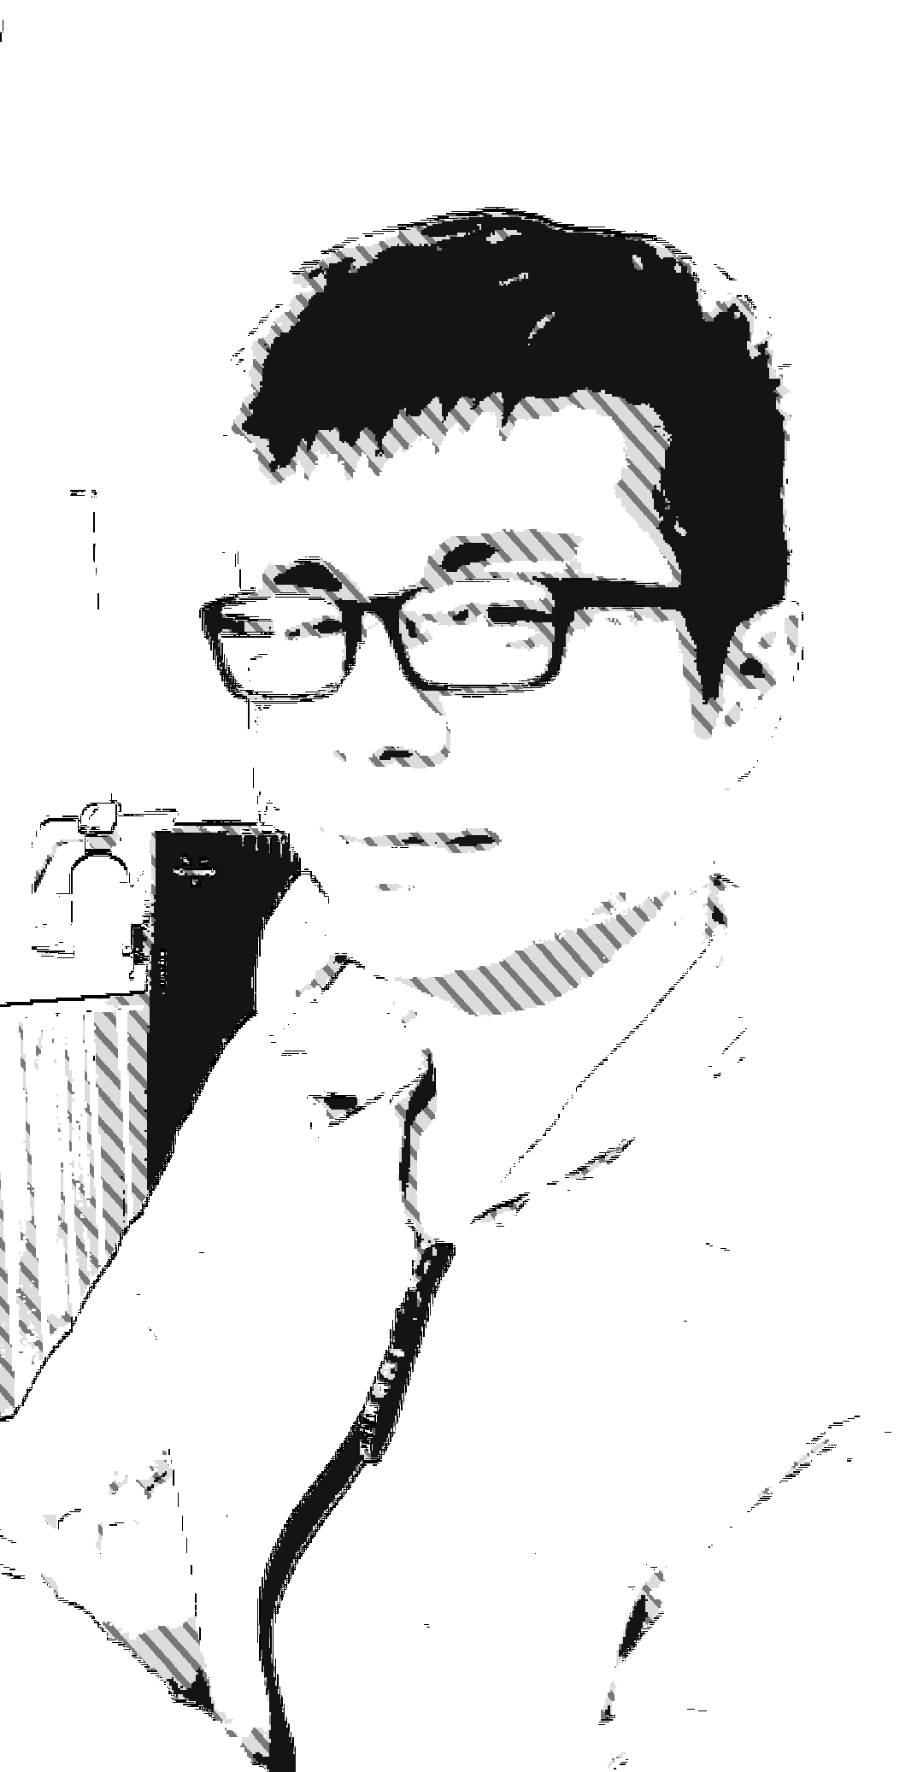
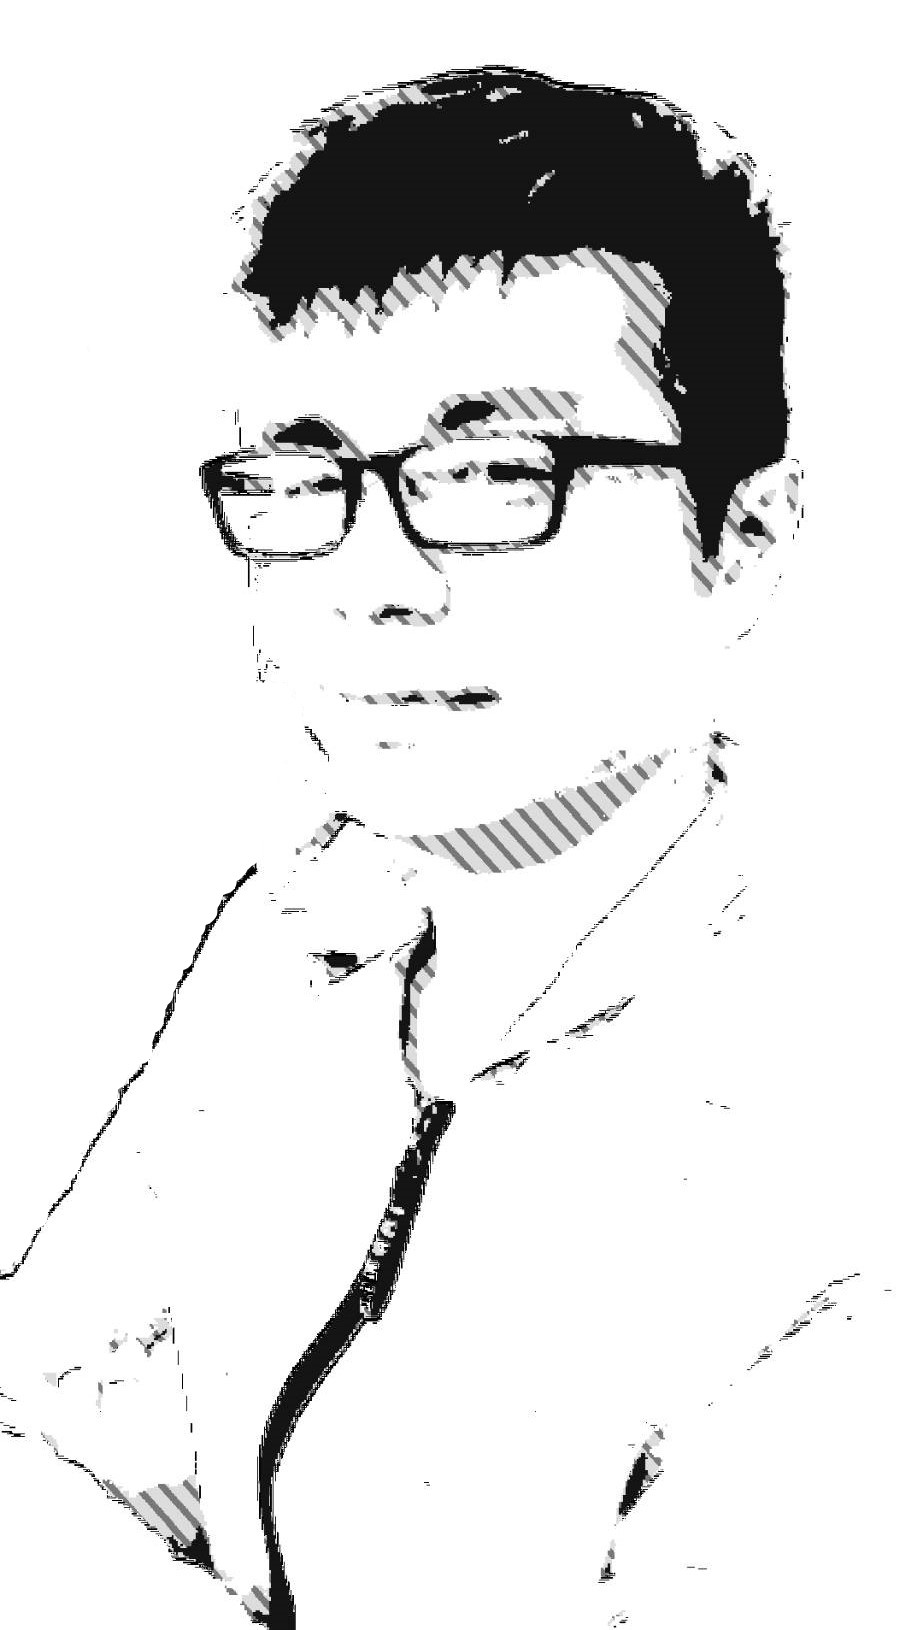
edit personal picture

diff --git a/src/component/Detail.js b/src/component/Detail.js
@@ -17,6 +17,7 @@ function Detail({ seq = 0, detail = {}, dataElement = "" }) {
          <Container className="detailContent">
             {contentSwitch(seq)}
          </Container>
+         <div className="detailFooter"></div>
       </React.Fragment>
    );
 };
@@ -37,19 +38,11 @@ function contentSwitch(seq) {
       case 0:
          return (
             <Row>
-               <Col><Image className="m-3 align-self-start" width="300px" thumbnail src="/assets/picture/edward.jpg" /></Col>
                <Col>
                   <p>【我的個性】
                      我是李冠樺，來自台中市，個性沉穩，善於思惟整理歸納要點，因此對於寫程式的架構與邏輯上的思考極有興趣。會觀察身邊的人有何需求，與伙伴之間的相處融洽。</p>
-                  <p>【學習與工作歷程】
-                     我畢業於國立中正大學資訊管理研究所，因對數位課程的發展有興趣，碩士論文研究影響數位學習品質的因素為何。在學時曾接觸 Java、C#、ASP.NET。畢業後因認同理念、希望為善的力量貢獻所能，進入福智佛教基金會中區事業部任職，負責維護資料庫，及各項課程與活動的規劃。</p>
-                  <p>【工作期間】
-                     因工作需求不斷自學 Microsoft SQL Server相關技能，也著手改善工作流程、提高效率。達成減少10萬筆會員資料的稀疏性並修正錯誤，及提供準確的分析數據。
-                     期間參與總部建立新版系統的需求訪談、提供系統建置的建議、協助資料庫轉移，並規劃中區系統上線時程，協助3000位會員的操作需求。</p>
-                  <p>【職涯規劃】
-                     因深感所學不足，決定轉換職涯跑道，在前輩推薦下報名資展國際2021年10月的前端工程師課程，學習從基本網頁 JavaScript、後端 Node.js、RESTful API，到 React.js等前端技術。其中最感興趣的是 React.js，能拆分撰寫網頁元件，將程式邏輯與網頁元件結合，對分工也很有幫助。
-                     期間也自學 Git 版本控制技術，並運用在小組專題。感謝每一位老師的教授，每天的學習都非常充實！未來對自己的期許是能成為一位全端工程師，運用學到的技術解決不同應用層面所遇到的問題！</p>
                </Col>
+               <Col><Image className="m-3 align-self-start" width="300px" src="/assets/picture/edward.jpg" /></Col>
             </Row>
          );
       case 4:

diff --git a/src/styles.scss b/src/styles.scss
@@ -57,7 +57,7 @@ body {
       width: 100%;
       height: 90px;
       background-color: #bfc2c2;
-      box-shadow: 0px -5px 5px  #858484 inset;
+      box-shadow: 0px -5px 5px #858484 inset;
 
       h1 {
          margin-left: 10%;
@@ -73,16 +73,23 @@ body {
    }
 
    .detailContent {
-      padding: 90px 0px 0px 0px;
       max-width: 800px;
-      margin: 0 auto;
+      margin: 100px auto;
+   }
+
+   .detailFooter {
+      position: fixed;
+      bottom: 0;
+      width: 100%;
+      height: 70px;
+      background-color: #bfc2c2;
+      box-shadow: 0px 10px #D0D0D1 inset;
    }
 }
 
 #divGear {
    position: absolute;
    transform: translate(-50%, -50%);
-   /* width: 15vw; */
    width: 200px;
    top: 76.4vh;
    left: 31vw;

diff --git a/src/component/Summary.js b/src/component/Summary.js
@@ -17,7 +17,7 @@ function Summary({ seq = 0, detail = {} }) {
                   {/* 0 簡介 */}
                   <h4>李冠樺 Edward</h4>
                   <p>
-                     擅於架構性思惟、對前端懷抱熱情<br />
+                     擅於架構性思惟、目標是成為全端工程師<br />
                      認為最好的學習方法就是分享所學<br />
                      耐心溝通、互助成長
                   </p>
